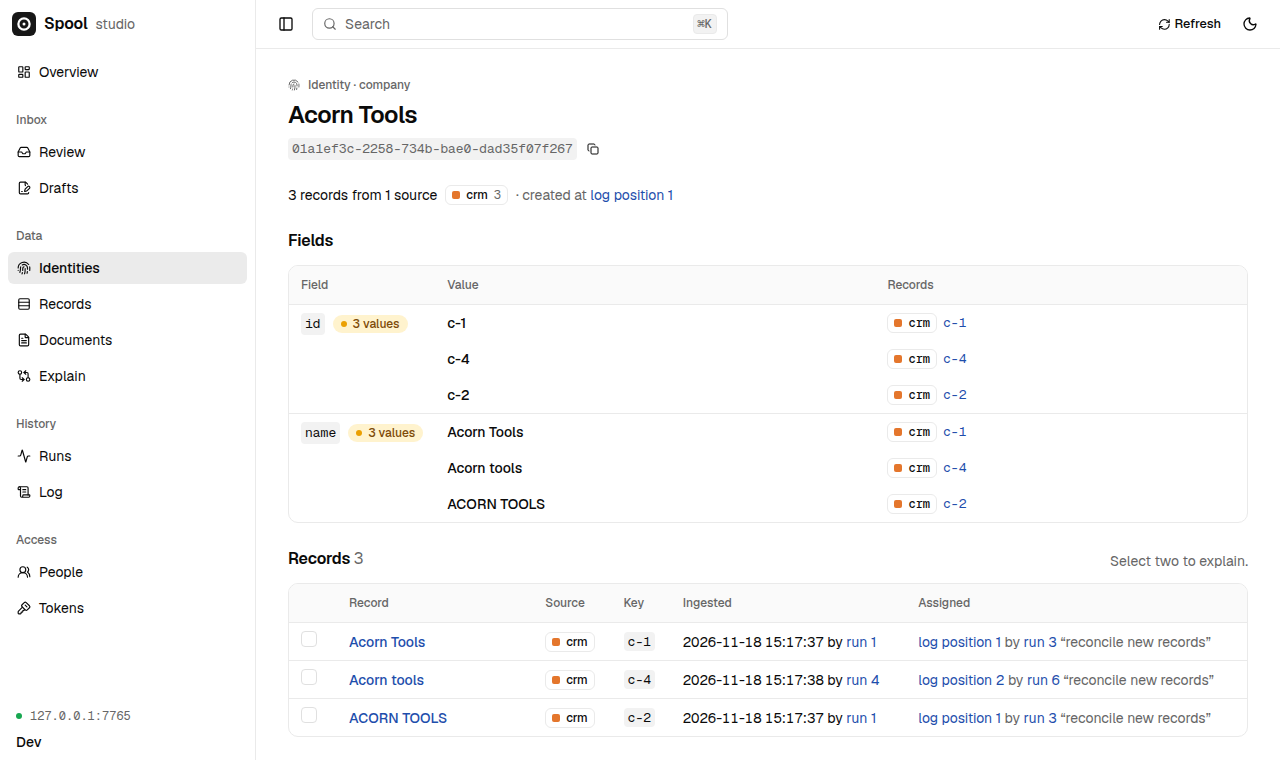
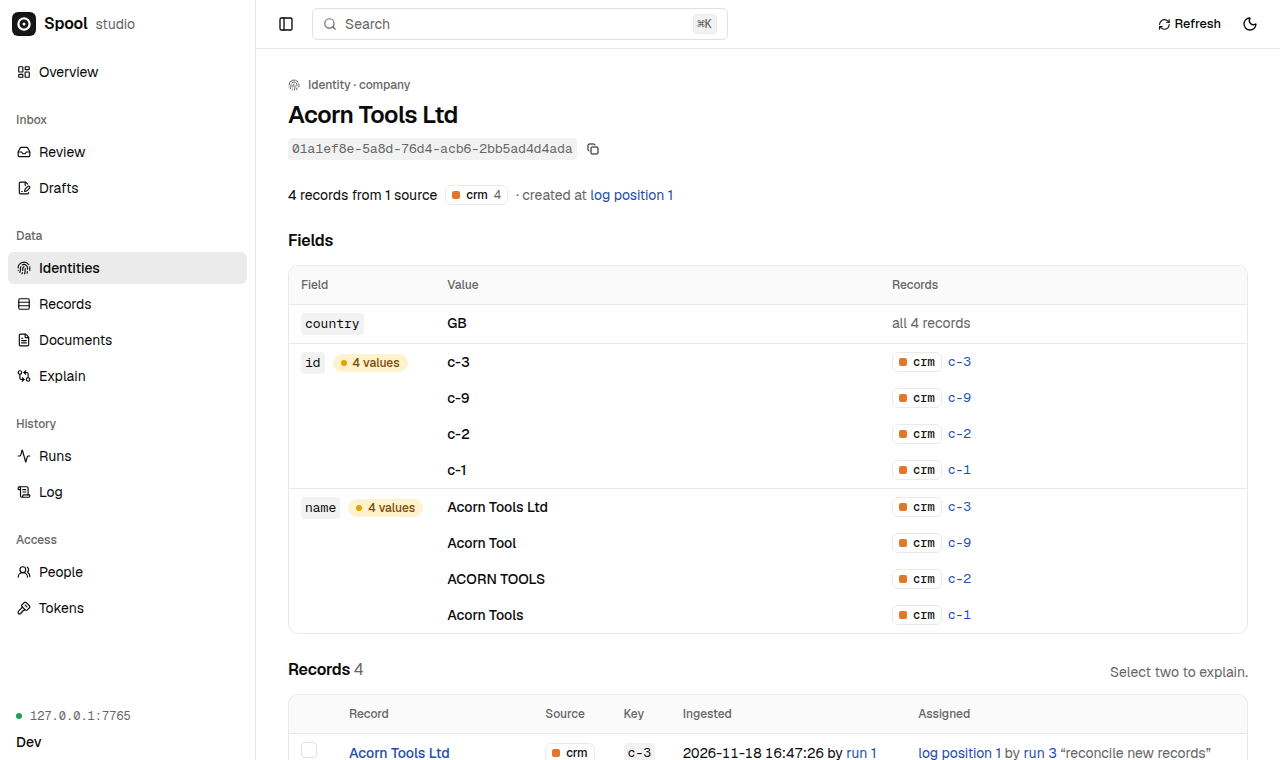
Write the README for the 0.1.0 release
The README described a build from source and loaded rows with curl. It
now describes the release: an install script, sample rows from `spool
init`, and loading and matching from the command line, over HTTP and
over MCP. It opens with what Spool is and a result, and it is shorter.

Some of what it shows is not on main yet: the release and its install
script, `spool load` and `spool match`, the sample rows and rules that
`spool init` writes, the name column of `spool show records`, a CSV body
for ingest, `source:key` in the explain call, and the MCP tools that
load and match. The rows, rules, groupings, record IDs and the
explanation are what the engine gives today for those files.

The limits follow main: `spool retract` takes a row back and does not
erase it. The screenshot is the studio on the store the new example
leaves.

diff --git a/README.md b/README.md
@@ -1,217 +1,184 @@
 # Spool
 
-Spool decides which records are the same real-world thing, and gives each thing an ID that stays the same as more records arrive.
+Spool decides which records are the same company, person or product, and gives each one an ID that stays the same when more records arrive and when you change the rules.
 
-You have rows from several places that describe the same companies, people or products, written differently in each. You want one ID per company that other systems can store. More rows arrive every day, and the ID you handed out yesterday must still mean the same company tomorrow, also after you change the matching rules. Working out which rows are the same thing is called entity resolution, or record linkage. Spool does that and keeps the IDs.
+It is a server you run yourself: one process, written in Rust, with its data in one [DuckDB](https://duckdb.org) file. Matching rules are SQL files that you keep in Git. You drive it from the command line, over HTTP, or from an agent over MCP, and it has a browser interface for looking at the data and correcting it.
 
-Spool is a server that you run yourself. It is written in Rust, keeps its data in one [DuckDB](https://duckdb.org) file, and is driven by a directory of YAML and SQL files that you keep in Git. It has an HTTP API, a command line that shows and explains what the store holds, and a browser interface for looking at the data and correcting it.
-
-It is early. Nothing is published: there is no release, no package and no container image. You build it from source, and its formats and API can still change. Before you spend time on it, read [What it is not for](#what-it-is-not-for) and [What it does not do yet](#what-it-does-not-do-yet).
-
-## Example
-
-A project says where rows come from and what makes two of them the same thing. This one is what `spool init` writes: one source of rows, `crm`, one entity type, `company` (an entity type is a kind of thing you want one ID for), and one rule. The rule is a SQL condition over two records, `l` and `r`, in `entities/company/rules/match/same_name.sql`:
-
-```sql
-l.name_key = r.name_key
-```
-
-`name_key` is `lower(trim(name))`, so two companies match when their names are equal but for case.
-
-Three rows go to a running server, which [Getting started](#getting-started) sets up. The first two are one company:
+Working out which records are the same thing is called entity resolution, or record linkage. Tools that do it give you clusters whose IDs belong to one run. Spool keeps the IDs: a new row joins the identity that exists, and a better rule produces a list of suggested merges, not new IDs.
 
 ```sh
-curl -s -X POST http://127.0.0.1:7765/v1/ingest -H 'content-type: application/json' -d '{
-  "source": "crm",
-  "entity_type": "company",
-  "rows": [
-    { "id": "c-1", "name": "Acorn Tools" },
-    { "id": "c-2", "name": "ACORN TOOLS" },
-    { "id": "c-3", "name": "Larkfield Logistics" }
-  ]
-}'
-curl -s -X POST http://127.0.0.1:7765/v1/runs -H 'content-type: application/json' -d '{"entity_type": "company"}'
-```
-
-The first call loads the rows, and each row becomes a record. The second matches the records that are new. Each call answers with one line of JSON about the run it started. `spool show records` prints what the store holds afterwards:
-
-```sh
-spool show records
-```
-
-```text
-record                                type     source and key  identity
-13687e30-654c-c22c-4a23-73e8cf22f9c0  company  crm:c-1         01a1ef3c-2258-734b-bae0-dad35f07f267
-2aa3e6d3-813d-35c4-c75c-47f0745f9bf2  company  crm:c-2         01a1ef3c-2258-734b-bae0-dad35f07f267
-68614bf6-fdf1-b12a-7d7d-7401f9c2a0c8  company  crm:c-3         01a1ef3c-2258-734b-bae0-dad4e899cf2f
-```
-
-An identity is one real-world thing, here a company, with its ID and the records that belong to it. `crm:c-1` and `crm:c-2` have the same identity, and its ID, in the last column, is the company's ID.
-
-Later two more rows arrive: another spelling of Acorn Tools, and a company that is new.
-
-```sh
-curl -s -X POST http://127.0.0.1:7765/v1/ingest -H 'content-type: application/json' -d '{
-  "source": "crm",
-  "entity_type": "company",
-  "rows": [
-    { "id": "c-4", "name": "Acorn tools" },
-    { "id": "c-5", "name": "Kestrel Analytics" }
-  ]
-}'
-curl -s -X POST http://127.0.0.1:7765/v1/runs -H 'content-type: application/json' -d '{"entity_type": "company"}'
-spool show records
-```
-
-```text
-record                                type     source and key  identity
-118b3805-5b71-8a29-ec51-2a3ffc810f82  company  crm:c-5         01a1ef3c-22d1-77b8-a117-5a4d18016987
-13687e30-654c-c22c-4a23-73e8cf22f9c0  company  crm:c-1         01a1ef3c-2258-734b-bae0-dad35f07f267
-29f842c5-b478-a142-da89-59e5b57b065c  company  crm:c-4         01a1ef3c-2258-734b-bae0-dad35f07f267
-2aa3e6d3-813d-35c4-c75c-47f0745f9bf2  company  crm:c-2         01a1ef3c-2258-734b-bae0-dad35f07f267
-68614bf6-fdf1-b12a-7d7d-7401f9c2a0c8  company  crm:c-3         01a1ef3c-2258-734b-bae0-dad4e899cf2f
-```
-
-`crm:c-4` joined the identity that `crm:c-1` and `crm:c-2` had, and that identity kept its ID. `crm:c-5` got a new one. Nothing that was placed before moved, so whatever stored the first ID still points at the same company.
-
-The ID of an identity is minted when the identity is created, so yours will differ from these. The ID of a record is derived from its source, its key and its content, so yours will be the same.
-
-`spool explain` says why two records share an identity, or why they do not:
-
-```sh
-spool explain crm:c-1 crm:c-4
-```
-
-```text
-`crm:c-1` and `crm:c-4` belong to the same identity, 01a1ef3c-2258-734b-bae0-dad35f07f267.
-Run 5 (strategy `rules`) judged them `match` (match rule `same_name` held).
-`crm:c-1` was placed at log position 1 by `engine` (reconcile run 3, "reconcile new records").
-`crm:c-4` was placed at log position 2 by `engine` (reconcile run 6, "reconcile new records").
-By the rules as they are now, block rule `same_name` makes them a candidate pair and match rule `same_name` holds, so they would be judged `match`.
-
-left   13687e30-654c-c22c-4a23-73e8cf22f9c0  crm:c-1  identity 01a1ef3c-2258-734b-bae0-dad35f07f267
-right  29f842c5-b478-a142-da89-59e5b57b065c  crm:c-4  identity 01a1ef3c-2258-734b-bae0-dad35f07f267
-
-features
-            left         right
-  name      Acorn Tools  Acorn tools
-  name_key  acorn tools  acorn tools
-
-rules as they are now
-  block  same_name  holds
-  match  same_name  holds
-
-runs that compared them
-  run 5  rules  succeeded  block: same_name  match
-```
-
-The server also answers a browser, with an interface called the studio. This is its page for the Acorn Tools identity after the second batch, with the three records the identity holds and the run that placed each:
-
-![The studio's page for one identity. It is headed Acorn Tools, shows the identity's ID, and lists the records c-1, c-4 and c-2 with the run that placed each.](docs/studio-identity.png)
-
-## Getting started
-
-You need:
-
-- Rust 1.89 or later, with `cargo`. [rustup](https://rustup.rs) installs both. A Rust older than 1.85 stops at `feature edition2024 is required` and does not say which version it wants.
-- A C compiler, which the build uses for SQLite.
-- `git` and `curl`.
-- Linux or macOS. The commands on this page were run on Linux on x86-64 with Rust 1.100.0. Windows has not been tried.
-- The network, during the build: Cargo downloads the crates, and the build downloads the DuckDB library it links against.
-
-Build the binary and put it on the search path of this terminal:
-
-```sh
-git clone https://github.com/alexpatow/spool.git
-cd spool
-cargo build --release --locked -p spool-cli
-export PATH="$PWD/target/release:$PATH"
-spool --version
-```
-
-```text
-spool 0.1.0
-```
-
-The build took two and a half minutes on four cores and left 1.2 GB in `target`. There is no install step. The binary loads the DuckDB library from the checkout's `target` directory, so leave the checkout where it is.
-
-Scaffold a project outside the checkout and start the server:
-
-```sh
-cd ..
-spool init companies --entity company --source crm
-cd companies
+curl -fsSL https://github.com/alexpatow/spool/releases/latest/download/install.sh | sh
+spool init companies && cd companies
 spool dev
 ```
 
-`spool init` says what it made and which files to edit. `spool dev` prints this and keeps running:
-
-```text
-project   .
-store     ./.spool/dev.duckdb
-applied   0348febc994b9f1fa46efc552547ce0b7a5c8c73fa88b81a4df2ca718c797414 (declared company)
-accounts  ./.spool/dev.auth.sqlite
-listening on http://127.0.0.1:7765
-studio    http://127.0.0.1:7765/
-mcp       http://127.0.0.1:7765/mcp
-```
-
-`spool dev` listens on this machine only and asks nobody to sign in. Its data is in `.spool/dev.duckdb` inside the project, and it applies changes to the project's files as you save them.
-
-Leave it running. Open a second terminal in the directory that holds `spool` and `companies`:
+In a second terminal, in `companies`:
 
 ```sh
-export PATH="$PWD/spool/target/release:$PATH"
-cd companies
+spool load samples/crm-1.csv
+spool match
+spool show records
 ```
 
-Now run the commands of the [example](#example) in that terminal. There is no command that loads rows or starts a run yet, which is why the example uses `curl`. The studio is at <http://127.0.0.1:7765/>.
+The last command prints this, after a first column of record IDs that is left out here to fit:
 
-Ctrl-C in the first terminal stops the server. The data stays, and `spool dev` picks it up the next time. To start from nothing, stop the server and delete `companies/.spool`.
+```text
+source and key  name                 identity
+crm:c-1         Acorn Tools          01a1ef8e-5a8d-76d4-acb6-2bb5ad4d4ada
+crm:c-2         ACORN TOOLS          01a1ef8e-5a8d-76d4-acb6-2bb5ad4d4ada
+crm:c-3         Acorn Tools Ltd      01a1ef8e-5a8d-76d4-acb6-2bb5ad4d4ada
+crm:c-4         Larkfield Logistics  01a1ef8e-5a8d-76d4-acb6-2bb802d5ca25
+crm:c-5         Halden Group         01a1ef8e-5a8d-76d4-acb6-2bb793e9d0ae
+crm:c-6         Halden Group         01a1ef8e-5a8d-76d4-acb6-2bb65a02262a
+```
 
-Not needed for the above: [`uv`](https://docs.astral.sh/uv/) and [`bun`](https://bun.sh). A project can judge pairs with your own code in place of SQL rules, which Spool calls a strategy. A strategy in Python runs with `uv` and one in TypeScript with `bun`, and nothing looks for either until such a file runs.
+Three spellings of Acorn Tools share an ID. The two Halden Groups are in different countries, and a rule keeps them apart.
+
+Version 0.1.0, for Linux and macOS. The first commit was on 14 November 2026, and nobody runs it in production yet. It is not for deduplicating one file once, for an answer per request, or for more than one machine: before you spend time on it, read [What it is not for](#what-it-is-not-for) and [What it does not do](#what-it-does-not-do).
+
+## Getting started
+
+The commands above are all of it. This section says what each needs and does, and then goes on from the result.
+
+You need Linux on x86-64 or arm64, or macOS on Apple silicon, and `curl`. There is no Windows build.
+
+**Install.** The script downloads the release for your machine, checks it against its checksum, unpacks it under `~/.local/share/spool/0.1.0` and links `~/.local/bin/spool`. It needs no root and changes nothing else. To do it by hand, download `spool-0.1.0-<target>.tar.gz` from the [release](https://github.com/alexpatow/spool/releases/tag/v0.1.0), unpack it and put its `bin` directory on your search path. Keep `bin` and `lib` together: the binary loads the DuckDB library from `../lib`. `spool --version` prints `spool 0.1.0`.
+
+**Create a project.** `spool init companies` writes a directory of files that you keep in Git. `sources/crm.yaml` lists the columns of a source of rows. `entities/company/` describes an entity type, which is a kind of thing you want one ID for, and holds three rules of one line of SQL each. `samples/` holds two files of rows to load. The first is `samples/crm-1.csv`:
+
+```csv
+id,name,country
+c-1,Acorn Tools,GB
+c-2,ACORN TOOLS,GB
+c-3,Acorn Tools Ltd,GB
+c-4,Larkfield Logistics,GB
+c-5,Halden Group,GB
+c-6,Halden Group,US
+```
+
+**Start the server.** `spool dev` listens on `127.0.0.1:7765` only and asks nobody to sign in. Its data is in `.spool/dev.duckdb` inside the project, and it applies changes to the project's files as you save them. Leave it running.
+
+**Load and match.** `spool load` makes each row a record. Loading does not match, and loading the same file again adds nothing. `spool match` judges the records that are new, against each other and against the ones the store holds, and places them in identities. An identity is one company, with its ID and the records that belong to it. That ID, in the last column of `spool show records`, is what other systems store.
+
+The ID of an identity is minted when the identity is created, so yours will differ from the ones here. The ID of a record is derived from its source, its key and its content, so yours will be the same.
+
+### Ask why
+
+```sh
+spool explain crm:c-5 crm:c-6
+```
+
+```text
+`crm:c-6` belongs to identity 01a1ef8e-5a8d-76d4-acb6-2bb65a02262a and `crm:c-5` to identity 01a1ef8e-5a8d-76d4-acb6-2bb793e9d0ae.
+Run 2 (strategy `rules`) judged them `no_match` (no_match rule `different_country` held).
+...
+```
+
+A rule is a file that holds a SQL condition over two records, `l` and `r`. These are the three in the project. The first says which pairs get compared at all, the second matched "Acorn Tools Ltd" to "Acorn Tools", and the third kept the two Halden Groups apart. `name_key` is `lower(trim(name))`.
+
+```sql
+-- entities/company/rules/block/name_prefix.sql
+left(l.name_key, 4) = left(r.name_key, 4)
+
+-- entities/company/rules/match/similar_name.sql
+jaro_winkler_similarity(l.name_key, r.name_key) >= 0.92
+
+-- entities/company/rules/no_match/different_country.sql
+l.country <> r.country
+```
+
+### Send more rows
+
+```sh
+spool load samples/crm-2.csv
+spool match
+spool show records
+```
+
+It prints the six lines from before, unchanged, and then three more:
+
+```text
+crm:c-7         Larkfeild Logistics  01a1ef8e-5a8d-76d4-acb6-2bb802d5ca25
+crm:c-8         Kestrel Analytics    01a1ef8e-5f06-7397-9a0c-445aaacfd3fe
+crm:c-9         Acorn Tool           01a1ef8e-5a8d-76d4-acb6-2bb5ad4d4ada
+```
+
+"Larkfeild Logistics" and "Acorn Tool" joined the identities that existed, and those kept their IDs. Kestrel Analytics is new and got a new one. Nothing that was placed before moved.
+
+### Over HTTP
+
+Each command is a call to the HTTP API, which calls loading "ingest" and a match a "run". The same four steps:
+
+```sh
+curl -s -X POST 'http://127.0.0.1:7765/v1/ingest?source=crm&entity_type=company' -H 'content-type: text/csv' --data-binary @samples/crm-1.csv
+curl -s -X POST http://127.0.0.1:7765/v1/runs -d '{"entity_type": "company"}'
+curl -s 'http://127.0.0.1:7765/v1/records?source=crm'
+curl -s 'http://127.0.0.1:7765/v1/explain?a=crm:c-5&b=crm:c-6'
+```
+
+Each answers with one line of JSON.
+
+### From an agent
+
+The server speaks the Model Context Protocol at `http://127.0.0.1:7765/mcp`, and `spool dev` asks for no token. For Claude Code, and for Codex:
+
+```sh
+claude mcp add --transport http spool http://127.0.0.1:7765/mcp
+codex mcp add spool --url http://127.0.0.1:7765/mcp
+```
+
+The agent gets tools that load rows (`load_rows`), start a match (`run_match`), search records and identities, explain a pair (`explain_pair`), and merge, split and undo. Ask it, for example, to load `samples/crm-2.csv`, match it, and say why c-5 and c-6 are different companies.
+
+### In a browser
+
+The studio is at <http://127.0.0.1:7765/>. It shows the same records, identities and explanations, and it can merge two identities, split one and undo a change. This is its page for the identity of Acorn Tools after the second batch:
+
+![The studio's page for one identity. It is headed Acorn Tools Ltd, shows the identity's ID, and lists the four spellings of the name with the record each came from: c-3, c-9, c-2 and c-1.](docs/studio-identity.png)
+
+### Stop, and your own rows
+
+Ctrl-C in the first terminal stops the server. The data stays in `.spool/dev.duckdb`. To start from nothing, stop the server and delete `.spool`. For your own rows, edit the columns in `sources/crm.yaml` and the rules, then run `spool load your-file.csv`.
 
 ## What it is not for
 
-These follow from the design and are not planned to change. Where something else fits better, it is named. What is said about other tools comes from reading their code and documentation in November 2026, not from running them beside Spool: see the [survey](docs/landscape-survey.md).
+These follow from the design. Where something else fits better, it is named. What is said about other tools comes from reading their code and documentation in November 2026, not from running them beside Spool: see the [survey](docs/landscape-survey.md).
 
-- **Deduplicating one file once.** Spool exists to keep IDs the same as data arrives over time. If you have one file, will get no more, and nobody stores the IDs, [Splink](https://github.com/moj-analytical-services/splink) is less to run: a Python library that scores pairs with a statistical model and needs no labelled examples. Its cluster IDs belong to one run and change when the data does.
-- **Matching without rules of your own.** The built-in matcher runs SQL conditions that you write, which can use DuckDB's functions for similar strings. There is no trained model in it. For a matcher that learns from pairs you label, look at [dedupe](https://github.com/dedupeio/dedupe), or [Zingg](https://github.com/zinggAI/zingg) on Spark. Neither keeps identities between runs in its open-source form. A model can also judge pairs for Spool as a strategy, and Spool keeps the identities: `benchmarks/resolution/people` has one that runs Splink.
-- **A decision per record, inside the request.** Rows are loaded in batches and matched by runs. Loading a row does not answer whether it is a duplicate. [Senzing](https://senzing.com), which is proprietary, resolves each record as it arrives. Its entity IDs can move as data loads.
+- **Deduplicating one file once.** Spool exists to keep IDs the same as data arrives over time. If you have one file, will get no more, and nobody stores the IDs, use [Splink](https://github.com/moj-analytical-services/splink) or [dedupe](https://github.com/dedupeio/dedupe).
+- **Matching without rules of your own.** The built-in matcher runs SQL conditions that you write. There is no trained model in it. Splink, dedupe and [Zingg](https://github.com/zinggAI/zingg) each learn one. A model can also judge pairs for Spool, through code of yours called a strategy, and Spool keeps the identities: `benchmarks/resolution/people` has one that runs Splink.
+- **An answer per record, inside the request.** Rows are loaded in batches and matched by runs. Loading a row does not say whether it is a duplicate. [Senzing](https://senzing.com), which is proprietary, resolves each record as it arrives.
+- **The same result whatever order rows arrive in.** Two records that were each placed alone stay apart until someone merges them, even when a later rule matches them. That is the cost of IDs that do not move.
 - **Exact matching on a key you trust.** If two rows are the same thing whenever their tax numbers are equal, a join in your database is enough.
-- **Data that is already in the FollowTheMoney format**, as sanctions and due-diligence data often is. [nomenklatura](https://github.com/opensanctions/nomenklatura), the Python library behind OpenSanctions, keeps stable IDs for people and companies in that format.
+- **Data that is already in the FollowTheMoney format.** [nomenklatura](https://github.com/opensanctions/nomenklatura) keeps stable IDs for people and companies in that format.
 - **Streaming.** There is no connection to Kafka or to a change feed. Something else has to collect rows and send them.
 - **More than one machine, or more than one writer.** One server process owns one DuckDB file and uses the cores and memory of one machine. There is no replication and no clustering.
-- **Several tenants in one server.** A store holds one project. Separate customers need separate servers.
-- **Embedding in your process.** There are no Python or Node bindings. Your code calls the server over HTTP.
+- **Several tenants in one server.** A store holds one project.
+- **Embedding in your process.** There are no Python or Node bindings. Your code calls the server over HTTP, and no client library is published for that.
 - **Golden records.** Spool says which records are one thing. It does not produce one merged record with the best name and address, and it writes nothing back to a source.
 
-## What it does not do yet
+## What it does not do
 
-- **No release.** No package and no container image is published. The binary you build loads a library from its checkout, so the binary alone cannot be copied to another machine.
-- **No command loads rows or starts a run.** Both are HTTP calls, in JSON or Arrow. There are no connectors: Spool does not read a database, a warehouse or a file store by itself.
-- **A record cannot be deleted.** Once loaded it stays, so there is no way to remove a person's data on request.
-- **No client library is published.** A TypeScript client is in `packages/client` and is not on npm. There is no Python client.
-- **No command corrects anything.** The command line shows and explains. Merging, splitting, undoing and deciding a review item are HTTP calls or buttons in the studio.
-- **Nothing is pushed when an identity changes.** A consumer reads the log of changes from the position it last saw.
-- **Access is all or nothing.** A token has full access to the API and does not expire, though it can be revoked. People sign in with a password or with Google, and with no other identity provider.
-- **No backup command and no migrations.** The format of the store can change before the first release, and a store in another format is refused.
-- **Strategies need `uv` or `bun` on the machine**, and nothing looks for either until one runs.
-- **Platforms.** CI tests on Linux on x86-64. Windows has not been tried.
-- **Size.** The largest set it has been measured on is 5,000,000 records: 210 seconds and 13.4 GB of memory on four cores, matching the whole set from nothing. [benchmarks/README.md](benchmarks/README.md) has the measurements and how they were made. A request to the API may be 256 MiB at most.
-
-## Status and licence
-
-Version 0.1.0, not released, so there is no changelog yet.
-
-MIT. See [LICENSE](LICENSE).
+- **Packages.** A release is an archive for Linux on x86-64 and arm64 and for macOS on Apple silicon, and a container image. There is no Homebrew, apt or Cargo package and no Windows build. Spool is two files, the binary and the DuckDB library in `lib` beside it, and there is no single static binary.
+- **Connectors.** `spool load` reads CSV files. Nothing reads a database, a warehouse or a file store.
+- **Corrections from the command line.** The command line loads, matches, takes rows back, shows and explains. Merging, splitting, undoing and deciding a review item are HTTP calls, MCP tools or buttons in the studio.
+- **Erasing a row.** `spool retract` takes a row that its source no longer holds out of its identity and out of matching, and the row stays in the store. A row loaded by mistake, by a person or by an agent, cannot be removed, and neither can a person's data on request.
+- **A row that changes from A to B and back to A stays at B.** The second A is content the server has seen under that key, so it is ignored.
+- **Limits on an agent.** Over MCP an agent can load rows and start runs, in requests of 4 MiB at most. It cannot approve a draft, add a person or make a token.
+- **Access is all or nothing.** A token has full access to the API and does not expire, though it can be revoked, so an agent that may read may also load. People sign in with a password or with Google, and with no other identity provider.
+- **Notifying anyone.** Nothing is pushed when an identity changes. A consumer reads the log of changes from the position it last saw.
+- **Backups and upgrades.** There is no backup command, and nothing is promised about a store written by one version opening in the next.
+- **Runtimes for your own code.** A strategy in Python needs [`uv`](https://docs.astral.sh/uv/) on the machine and one in TypeScript needs [`bun`](https://bun.sh). Spool brings neither, and nothing looks for either until such a file runs.
+- **Size.** The largest set it has been measured on is 5,000,000 records: 210 seconds and 13.4 GB of memory on four cores, matching the whole set from nothing, at pair precision 0.880 and recall 0.879. [benchmarks/README.md](benchmarks/README.md) has the measurements and how they were made. A request to the API may be 256 MiB at most.
 
 ## Where next
 
 - `spool` with no arguments lists the commands, and `spool <command> --help` describes each.
-- [benchmarks/README.md](benchmarks/README.md): projects with more sources and rules than the one above, on public data, and what was measured on them.
-- [docs/architecture-proposal.md](docs/architecture-proposal.md): the design. What records, judgements, identities, constraints and changesets are, how a project directory is laid out, and how strategies run.
-- [docs/landscape-survey.md](docs/landscape-survey.md): the other tools that were read, and where Spool differs.
+- [docs/mcp.md](docs/mcp.md): the tools an agent gets, and how to connect each client.
 - [docs/sign-in.md](docs/sign-in.md): running a server that other people sign in to.
-- [docs/mcp.md](docs/mcp.md): pointing an assistant that speaks the Model Context Protocol at the server.
+- [benchmarks/README.md](benchmarks/README.md): projects with more sources and rules than the one above, on public data, and what was measured on them.
+- [docs/landscape-survey.md](docs/landscape-survey.md): the other tools that were read, and where Spool differs.
+- [docs/architecture-proposal.md](docs/architecture-proposal.md): the design. What records, judgements, identities, constraints and changesets are, and how strategies run.
 - Bugs and questions: [open an issue](https://github.com/alexpatow/spool/issues).
+
+## Licence
+
+MIT. See [LICENSE](LICENSE).
